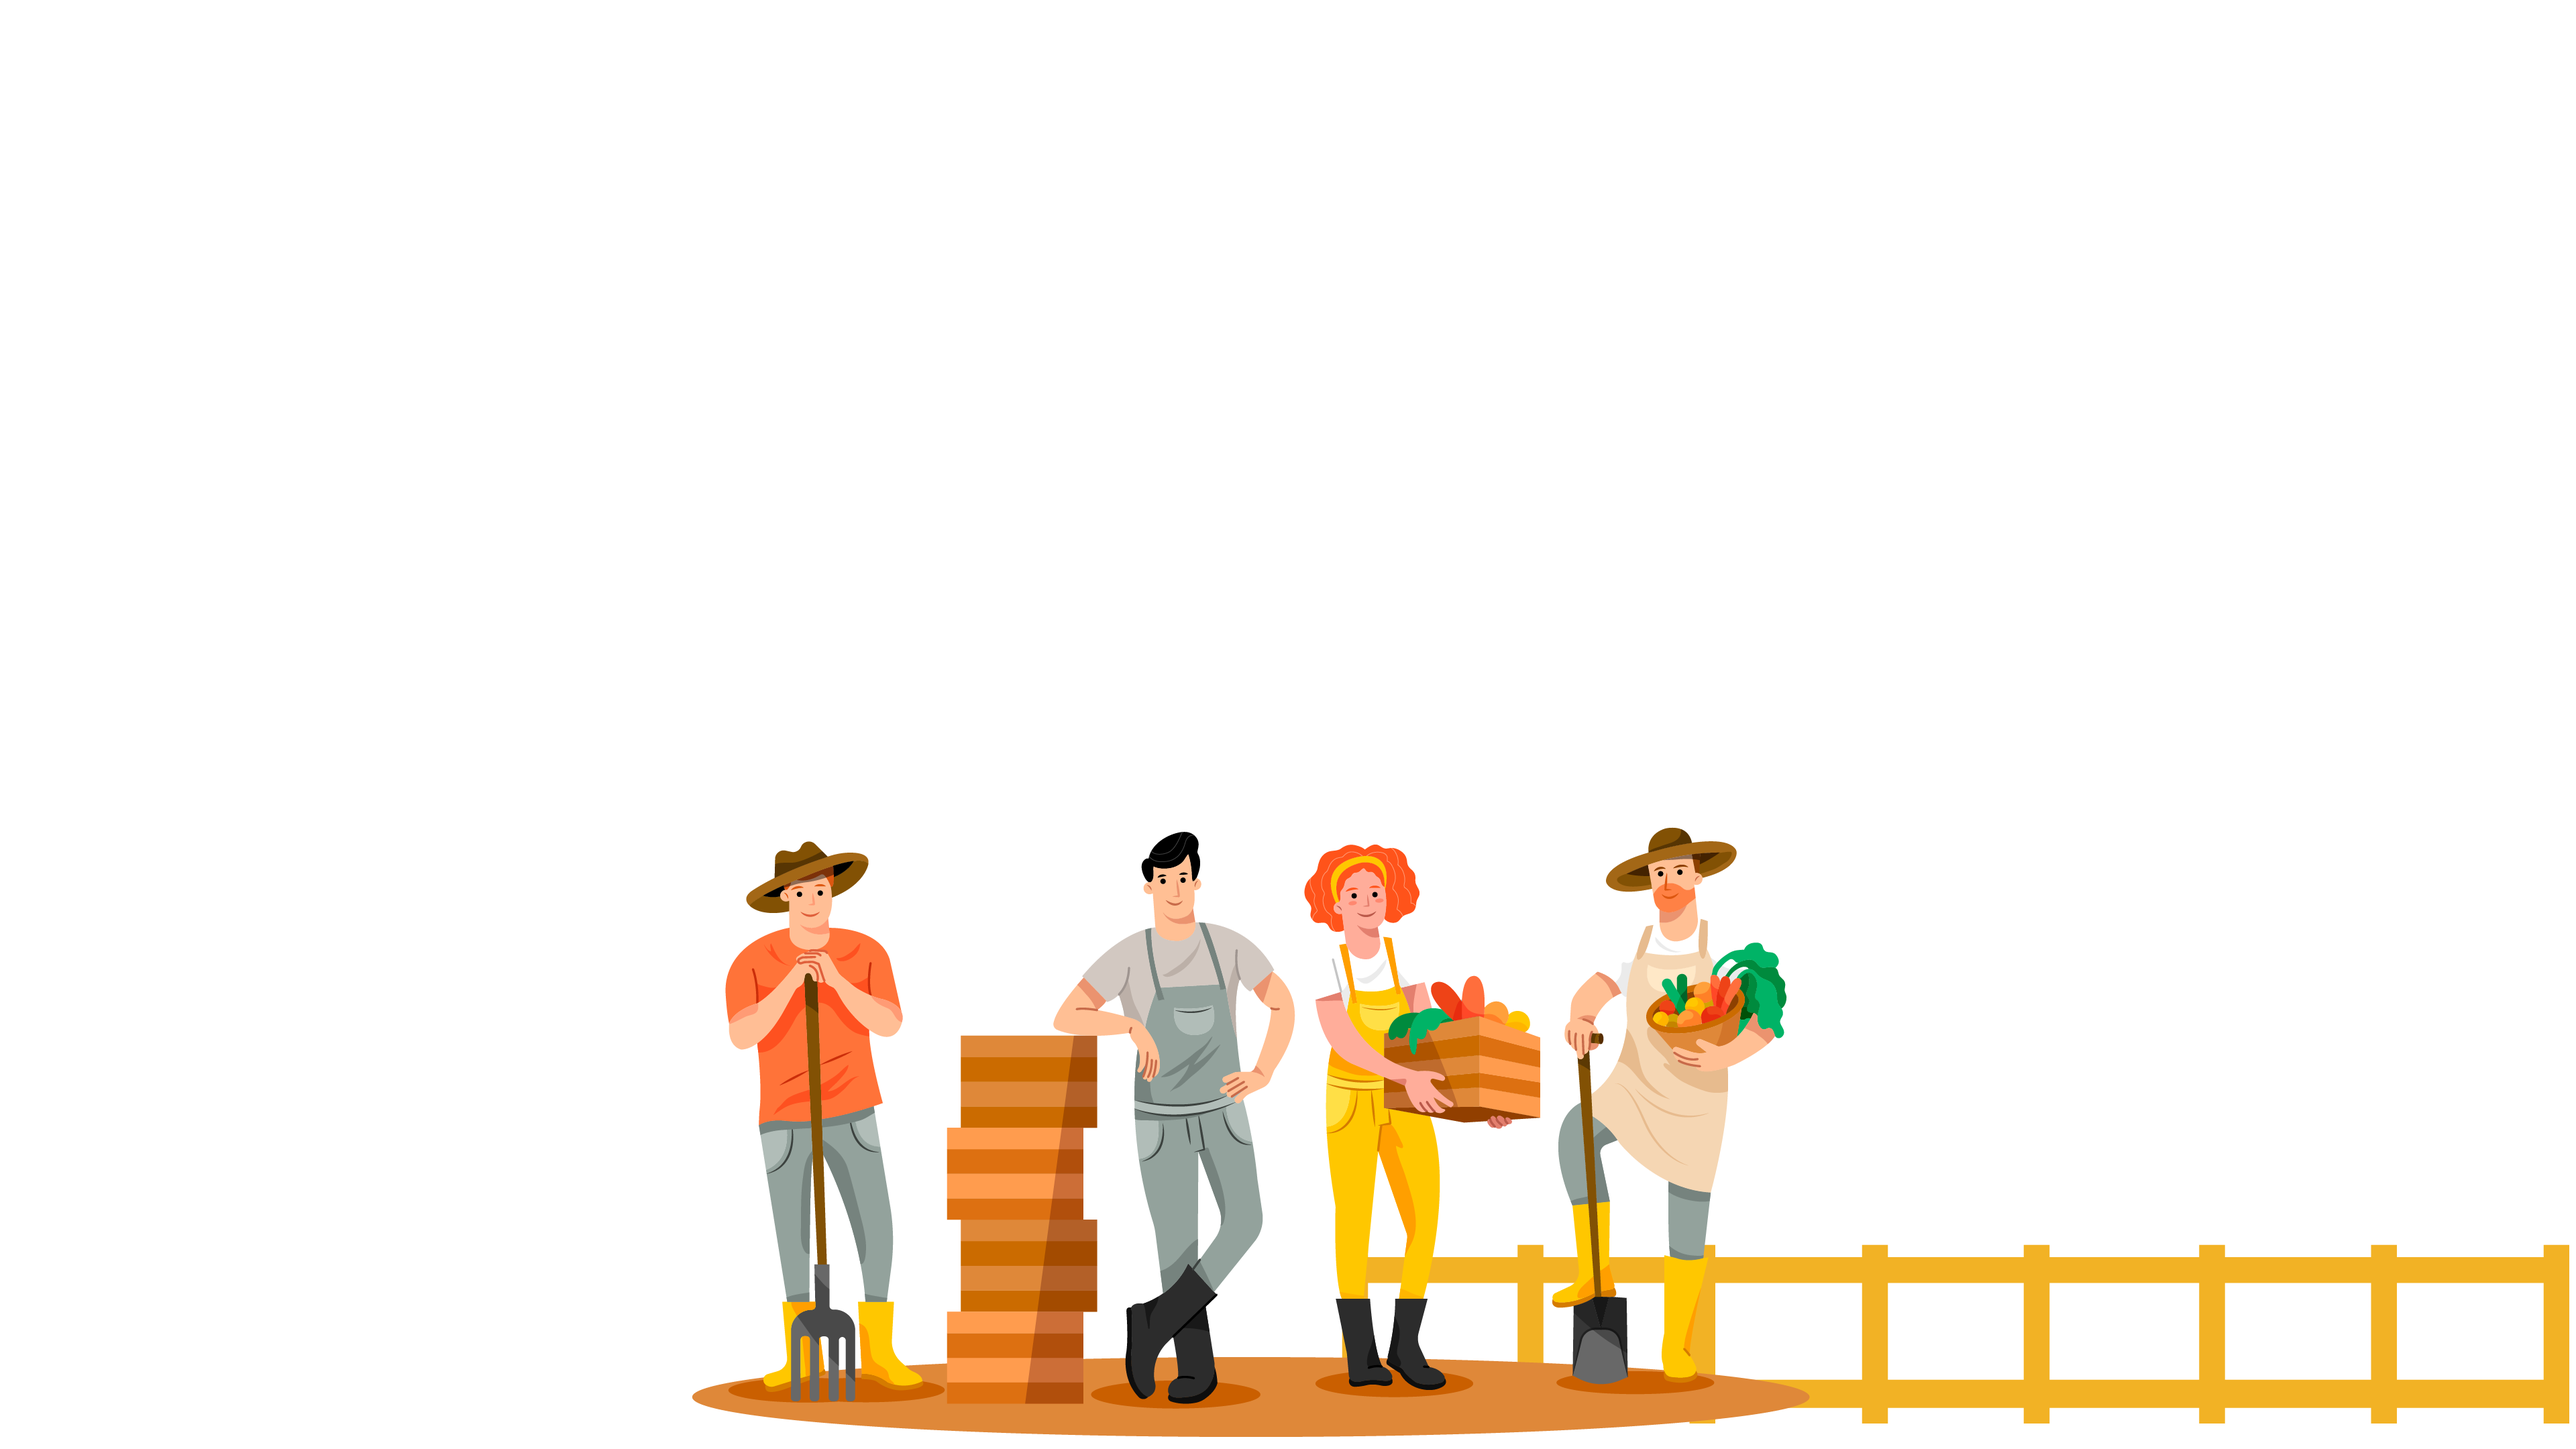
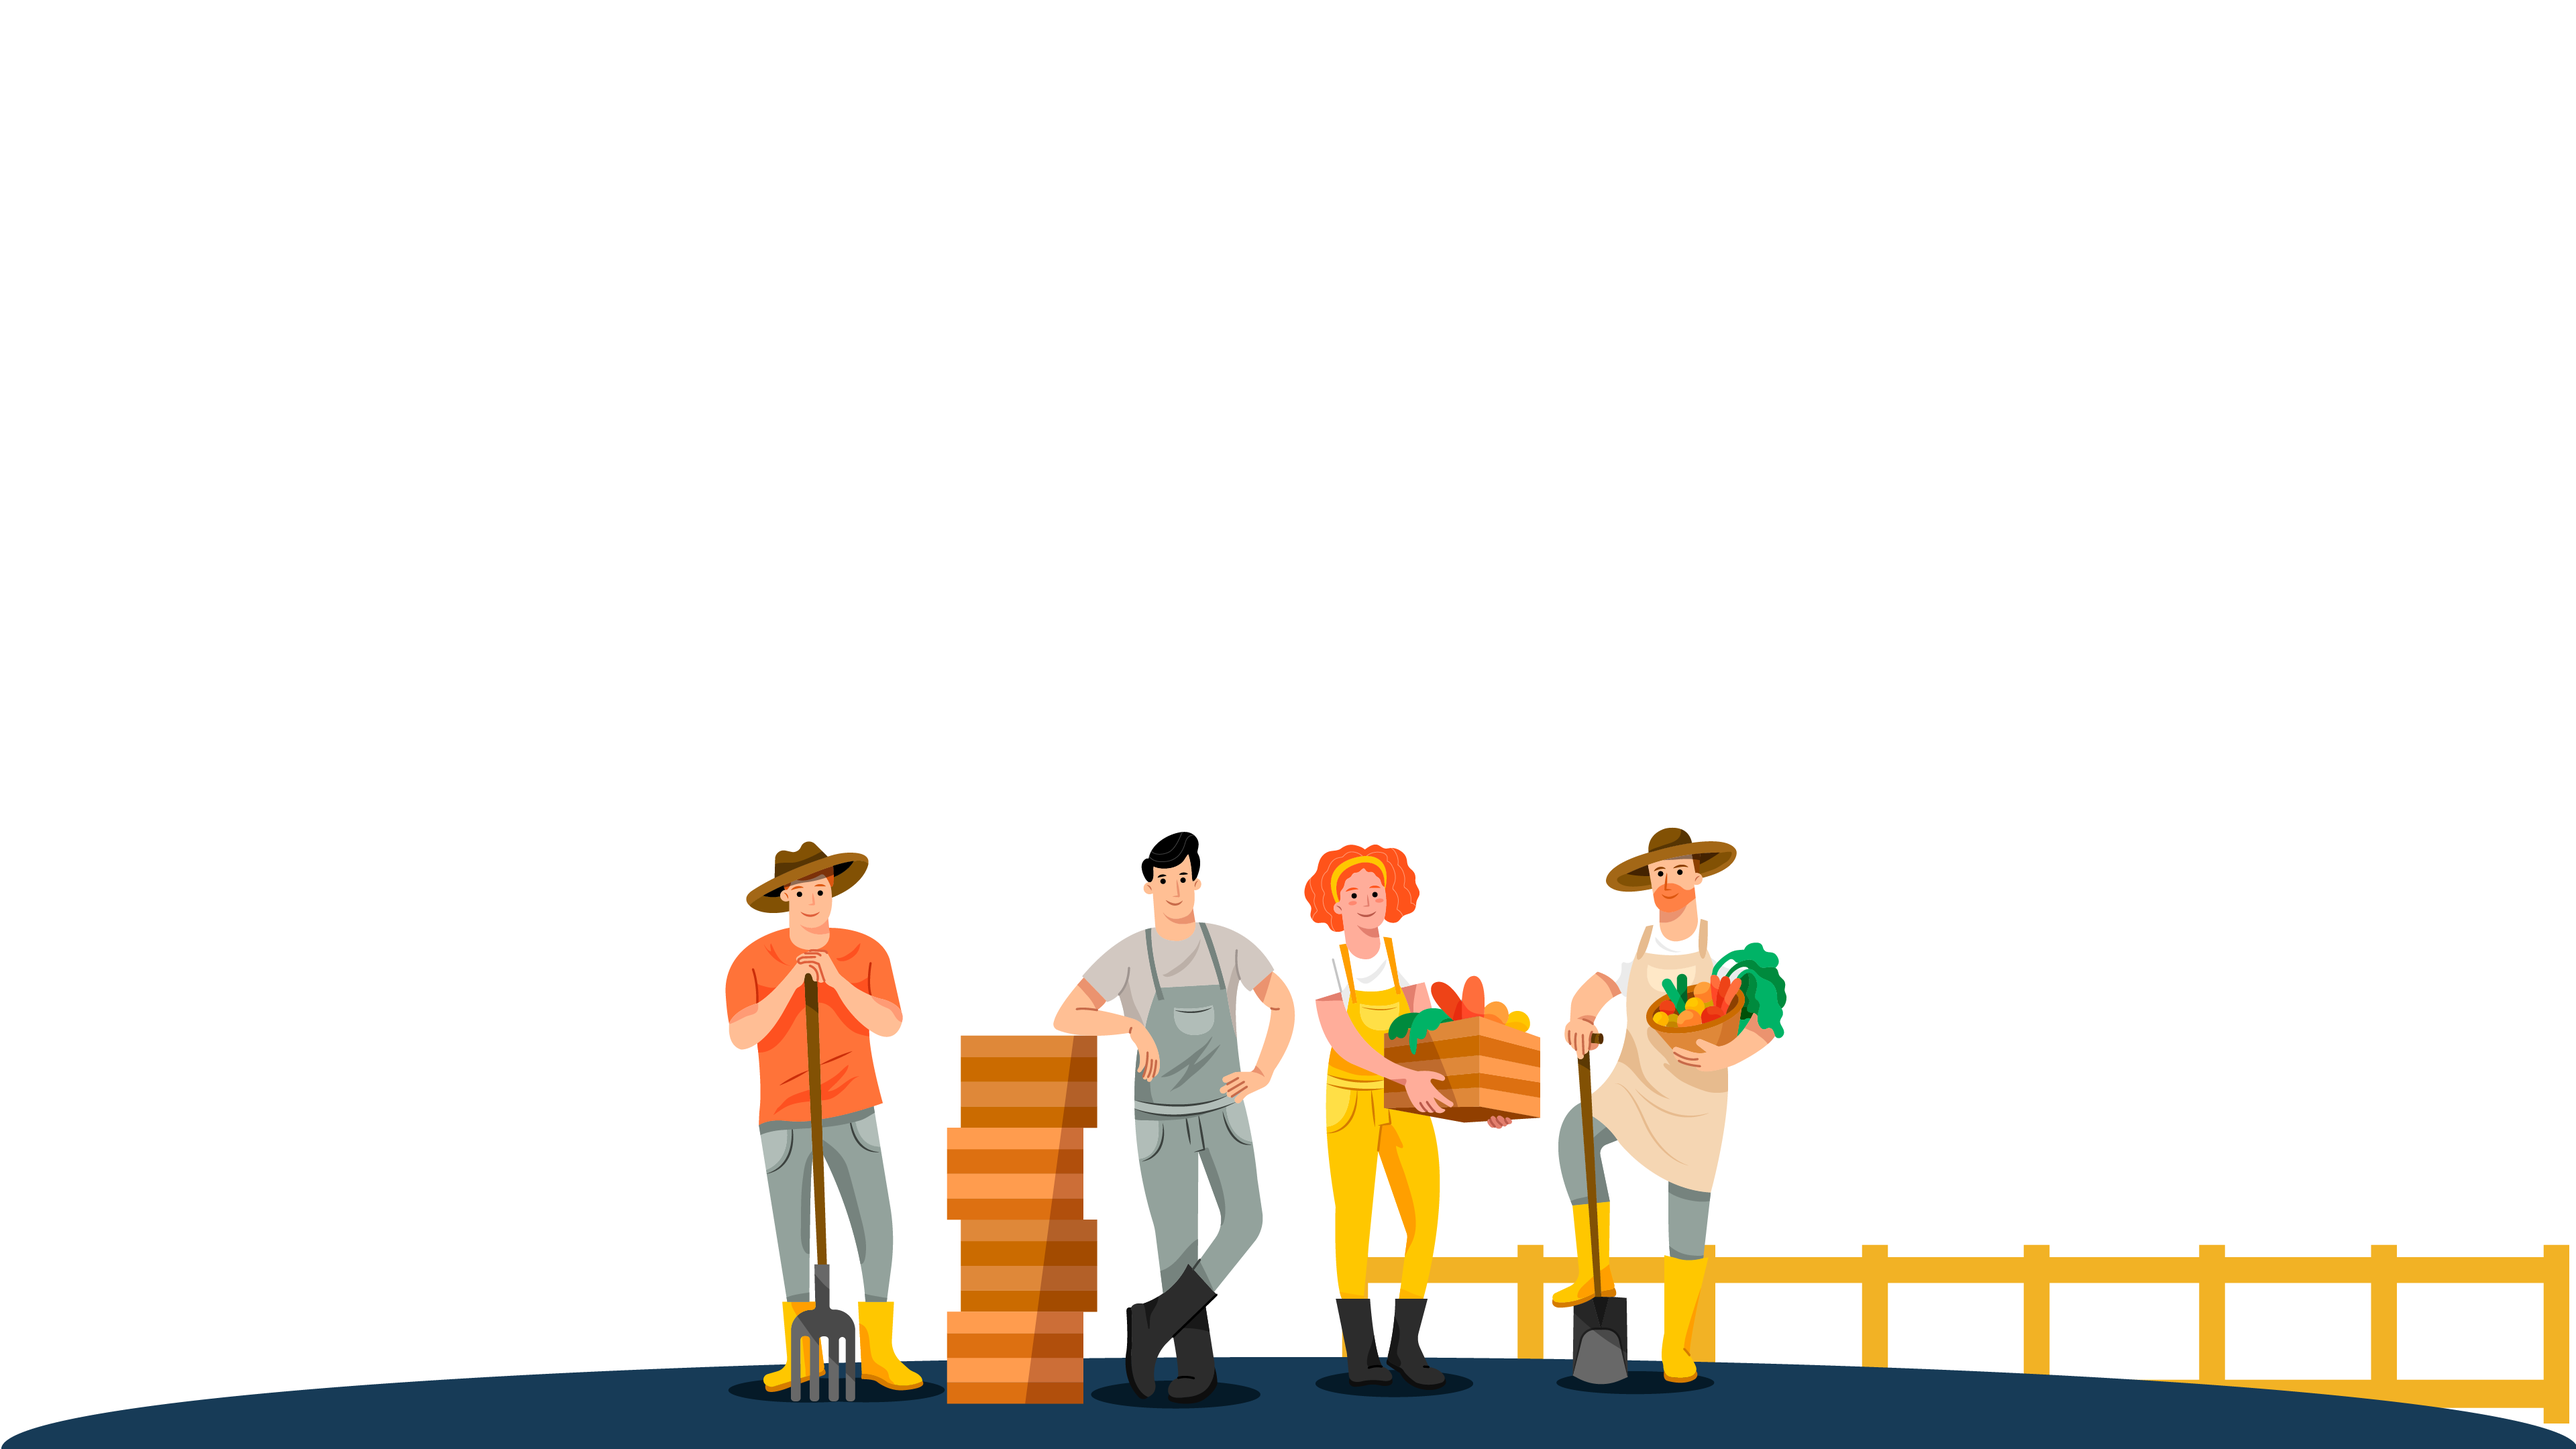
quote section

Changed region(s): [[0.0, 0.9306, 1.0, 1.0]]

diff --git a/index.html b/index.html
@@ -29,13 +29,58 @@
             src="https://lottie.host/5f11a04e-f72f-43c0-8f08-81b371dc4e9d/t7G7F6Toev.json" background="transparent"
             speed="1" loop autoplay id="house">
         </lottie-player>
-        <!-- <div class="title text-center">
-            <h2>Menyelamatkan Petani</h2>
-            <h2>dari Kemiskinan Ekstrem</h2>
-        </div> -->
     </section>
 
-    <div class="sec">
+    <div class="divider-section">
+    </div>
+    <div class="leading-section pt-5">
+        <div class="container">
+            <div>
+                <h2 class="title-section">Harapan Nol Persen <span>Kemiskinan Ekstrem</span> di 2024</h2>
+            </div>
+            <p class="subtitle-section"> Pada Rapat Kerja Nasional III PDIP, Presiden Joko Widodo mengungkapkan mimpinya
+                untuk menghapuskan
+                kemiskinan ekstrem pada 2024
+            </p>
+
+            <div class="row justify-content-center align-items-end">
+                <div class="col-lg-8 col-12">
+                    <div class="quote-box pt-3 pb-5 px-4">
+                        <div class="row justify-content-start">
+                            <div class="col-2">
+                                <img width="80%" src="assets/img/Quote Icon.png" alt="">
+                            </div>
+                            <div class="col-10">
+                                <div>
+                                    <img width="30%" src="assets/img/Line-Acc.png" alt="">
+                                </div>
+                                <p class="quote">Berkaitan dengan kemiskinan ekstrem ini kita sudah rencanakan di
+                                    periode
+                                    ke-2
+                                    ini, di 2024
+                                    itu
+                                    kita
+                                    berada pada posisi 0, tapi kita sempat terkendala Covid-19 hampir 2,5 tahun. Tapi
+                                    saya
+                                    masih
+                                    meyakini 2024 itu akan turun drastis
+                                </p>
+                            </div>
+                        </div>
+                    </div>
+                    <div class="quote-box-role px-3 py-3 mt-3 mb-3">
+                        <p>Joko Widodo - <span>Presiden Republik Indonesia</span></p>
+                    </div>
+                </div>
+                <!-- <div class="col-lg-2"></div> -->
+                <div class="col-lg-4 col-6">
+                    <img width="100%" height="auto" src="assets/img/Jokowi.png" alt="">
+                </div>
+            </div>
+        </div>
+    </div>
+
+    <div class="container">
         Lorem ipsum dolor sit amet consectetur adipisicing elit. Esse facilis unde illo neque at hic quisquam,
         nulla consectetur, itaque maxime sit iusto aliquam culpa reiciendis eaque recusandae vitae modi, animi
         expedita perferendis inventore. Culpa incidunt odit dicta quibusdam ullam facilis eum magnam, consectetur

diff --git a/assets/style.css b/assets/style.css
@@ -39,8 +39,60 @@ section {
     position: absolute;
 }
 
-.sec {
+.leading-section {
     position: relative;
-    padding: 100px;
-    background-color: white;
+    background-color: #1D3557;
+}
+
+.divider-section {
+    position: relative;
+    height: 50px;
+    width: 100%;
+    background-color: #1D3557;
+}
+
+.title-section {
+    font-size: 2.5rem;
+    font-weight: 500;
+    color: #F1FAEE;
+}
+
+.title-section>span {
+    color: #E63946;
+}
+
+.subtitle-section {
+    font-size: 1.5rem;
+    color: #A8DADC;
+}
+
+.quote-box {
+    background-color: #457B9D;
+    border-radius: 10px;
+}
+
+.quote {
+    color: #F1FAEE;
+    font-weight: 200;
+    font-size: 2rem;
+}
+
+.quote-box-role {
+    width: auto;
+    background-color: #457B9D;
+    border-radius: 10px;
+    margin-right: auto;
+    display: inline-block;
+}
+
+.quote-box-role>p {
+    font-weight: 500;
+    font-size: 1.5rem;
+    color: #F1FAEE;
+}
+
+.quote-box-role>p>span {
+    font-weight: 500;
+    font-size: 1.3rem;
+    color: #1D3557;
 }
